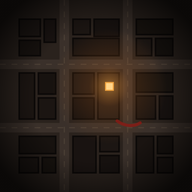
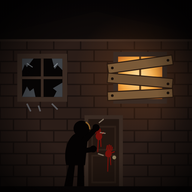
Kvartal: detailed emblem, siren glow and lightning over the menu
Emblem redrawn as a house front at night: a boarded window with light
through the gaps, a smashed one with shards, a zombie pounding on a door
with bloody handprints; icons re-rendered. The menu gets a soft red and
blue siren glow and an occasional lightning flash with distant thunder.

Claude-Session: https://claude.ai/code/session_01CJeFQTEg4JxW5kAec31Xqp

diff --git a/mobile-games/kvartal/index.html b/mobile-games/kvartal/index.html
@@ -7304,7 +7304,7 @@ function showTitle(fresh = true) {
   const ng = store.get("newgame", null);
   const item = (id, t, sub = "") => `<button class="tm" id="${id}"><span>${t}</span>${sub ? `<small>${sub}</small>` : ""}</button>`;
   screen.classList.add("titlescr");
-  screen.innerHTML = `<div class="tgrain"></div>
+  screen.innerHTML = `<div class="tlights"><i class="sr"></i><i class="sb"></i></div><div class="tbolt"></div><div class="tgrain"></div>
   <div class="tbox">
     <div class="talert"><i></i>Экстренное оповещение · округ Ноксвилл</div>
     <div class="tbrand"><span class="temb">${emblemSVG("te")}</span><h1 class="ttitle">Последний<br>квартал</h1></div>
@@ -7319,7 +7319,7 @@ function showTitle(fresh = true) {
   </div>
   ${best ? `<div class="tbest">Дольше всех продержался<b>${fmtSurvived(best)}</b></div>` : ""}
   <div class="tticker"><span class="tlive"><i></i>В эфире</span><div class="tmarq"><div>${TICKER.concat(TICKER).map(t => `<span>${t}</span>`).join("")}</div></div></div>`;
-  screen.hidden = false; bloodTitle(screen.querySelector(".ttitle"));
+  screen.hidden = false; bloodTitle(screen.querySelector(".ttitle")); titleStorm();
   const click = (id, fn) => { const b = $("#" + id); if (b) b.addEventListener("click", () => { unlockAudio(); sfx("swing", { vol: .25, rate: .7 }); fn(); }); };
   click("start", () => { screen.classList.remove("titlescr"); openNewGame(); });
   click("cont", () => { screen.classList.remove("titlescr"); continueGame(); });
@@ -7353,6 +7353,19 @@ const CREDITS = `<ul class="tlist">
 <li><b>Анимация</b>Ходьба и бег — Quaternius (CC0), перенесены на скелет игры.</li>
 <li><b>Звук</b>Oculus Audio Pack © 2015 Oculus VR, LLC (CC BY 4.0); голоса зомби — artisticdude (CC0); выстрелы — Fesliyan Studios; гром, ветер, сверчки, нарастающий гул и удар интро — Freesound (CC0). Тревожный гул меню — из Oculus Audio Pack.</li>
 </ul>`;
+// now and then lightning over the menu, thunder a moment later
+let stormT = null;
+function titleStorm() {
+  clearTimeout(stormT);
+  const strike = () => {
+    if (!screen.classList.contains("titlescr") || screen.hidden) return;
+    const b = screen.querySelector(".tbolt");
+    if (b) { b.classList.remove("on"); void b.offsetWidth; b.classList.add("on"); }
+    if (actx) sfx(Math.random() < .5 ? "thunderFar" : "thunder", { vol: .32, delay: rand(.6, 1.8), lp: 1400, cap: 2 });
+    stormT = setTimeout(strike, rand(15000, 35000));
+  };
+  stormT = setTimeout(strike, rand(6000, 14000));
+}
 function openInfo(title, html) {
   let m = $("#infoModal");
   if (!m) {
@@ -7433,6 +7446,15 @@ function titleCss() {
 }
 @media (orientation: landscape) and (max-height: 300px) { .tbox .tline, .tm small, .tbest { display: none; } .tbox .talert { font-size: 9px; } }
 .tbox { overflow: auto; }
+.tlights { position: absolute; inset: 0; pointer-events: none; overflow: hidden; }
+.tlights i { position: absolute; bottom: -35%; width: 70vw; height: 75vh; border-radius: 50%; filter: blur(70px); mix-blend-mode: screen; opacity: 0; animation: tsiren 1.9s ease-in-out infinite; }
+.tlights .sr { right: -18%; background: radial-gradient(closest-side, rgba(220,30,30,.9), transparent); }
+.tlights .sb { right: 14%; background: radial-gradient(closest-side, rgba(40,80,230,.85), transparent); animation-delay: -.95s; }
+@keyframes tsiren { 0%, 100% { opacity: 0 } 18% { opacity: .2 } 40% { opacity: .05 } 55% { opacity: .17 } 75% { opacity: 0 } }
+.tbolt { position: absolute; inset: 0; pointer-events: none; opacity: 0; background: radial-gradient(120% 90% at 65% 0%, rgba(200,215,255,.55), rgba(150,170,220,.18) 50%, transparent 80%); mix-blend-mode: screen; }
+.tbolt.on { animation: tbolt 1.1s ease-out 1; }
+@keyframes tbolt { 0% { opacity: 0 } 4% { opacity: .5 } 10% { opacity: .05 } 16% { opacity: .38 } 30% { opacity: .08 } 100% { opacity: 0 } }
+@media (prefers-reduced-motion: reduce) { .tlights i, .tbolt.on { animation: none; } }
 @media (prefers-reduced-motion: reduce) { .tgrain, .ttitle, .tmarq > div, .talert i, .tlive i { animation: none; } }
 ${BLOOD_CSS}`;
   document.head.append(st);
@@ -8115,34 +8137,53 @@ const recheckSize = () => { if (window.innerWidth !== lastIW || window.innerHeig
 window.addEventListener("orientationchange", () => { setTimeout(recheckSize, 120); setTimeout(recheckSize, 500); });
 setInterval(recheckSize, 250);
 game.classList.toggle("lefty", !!settings.lefty);
-// ---------- the emblem: a dark block seen from above, one window still lit
+// ---------- the emblem: a house at night - a boarded window still lit, a smashed one, and one of them at the door
 function emblemSVG(id = "em", full = false) {
-  // streets between nine blocks; each block holds a few roofs; one roof has a lit window
-  const roofs = [
-    [10, 10, 11, 9, "#1d1714"], [23, 10, 6, 12, "#191311"], [10, 21, 11, 8, "#17120f"],
-    [38, 10, 9, 8, "#1b1512"], [49, 10, 13, 9, "#16110f"], [38, 20, 24, 9, "#1a1411"],
-    [71, 10, 19, 8, "#18130f"], [71, 20, 8, 9, "#1c1613"], [81, 20, 9, 9, "#15110e"],
-    [10, 38, 8, 24, "#1a1411"], [20, 38, 9, 11, "#17120f"], [20, 51, 9, 11, "#1b1512"],
-    [38, 38, 11, 11, "#1c1613"], [51, 38, 11, 24, "#201915"], [38, 51, 11, 11, "#16110f"],
-    [71, 38, 19, 10, "#18130f"], [71, 50, 10, 12, "#1a1411"], [83, 50, 7, 12, "#16110f"],
-    [10, 71, 19, 9, "#17120f"], [10, 82, 10, 8, "#1b1512"], [22, 82, 7, 8, "#18130f"],
-    [38, 71, 12, 19, "#191311"], [52, 71, 10, 8, "#1c1613"], [52, 81, 10, 9, "#16110f"],
-    [71, 71, 9, 19, "#1a1411"], [82, 71, 8, 9, "#17120f"], [82, 82, 8, 8, "#1b1512"]
-  ];
+  const bricks = [];
+  for (let r = 0; r < 14; r++) { const y = 20 + r * 6; bricks.push(`M0 ${y}h100`); for (let x = (r % 2) * 7; x < 100; x += 14) bricks.push(`M${x} ${y}v6`); }
   return `<svg viewBox="0 0 100 100" xmlns="http://www.w3.org/2000/svg" aria-hidden="true">
 <defs>
-<radialGradient id="${id}g" cx="57" cy="45" r="30" gradientUnits="userSpaceOnUse"><stop offset="0" stop-color="#f2a541" stop-opacity=".55"/><stop offset=".35" stop-color="#e07a2a" stop-opacity=".18"/><stop offset="1" stop-color="#e07a2a" stop-opacity="0"/></radialGradient>
-<radialGradient id="${id}v" cx="50" cy="50" r="62" gradientUnits="userSpaceOnUse"><stop offset=".55" stop-color="#000" stop-opacity="0"/><stop offset="1" stop-color="#000" stop-opacity=".75"/></radialGradient>
+<linearGradient id="${id}s" x1="0" y1="0" x2="0" y2="1"><stop offset="0" stop-color="#0a0607"/><stop offset="1" stop-color="#1c1210"/></linearGradient>
+<radialGradient id="${id}l" cx="72" cy="40" r="34" gradientUnits="userSpaceOnUse"><stop offset="0" stop-color="#f2a541" stop-opacity=".42"/><stop offset=".4" stop-color="#d06a24" stop-opacity=".14"/><stop offset="1" stop-color="#d06a24" stop-opacity="0"/></radialGradient>
+<radialGradient id="${id}w" cx="72" cy="40" r="16" gradientUnits="userSpaceOnUse"><stop offset="0" stop-color="#ffe3a6"/><stop offset=".6" stop-color="#f2a541"/><stop offset="1" stop-color="#b85a1c"/></radialGradient>
+<radialGradient id="${id}v" cx="50" cy="52" r="64" gradientUnits="userSpaceOnUse"><stop offset=".5" stop-color="#000" stop-opacity="0"/><stop offset="1" stop-color="#000" stop-opacity=".8"/></radialGradient>
 <clipPath id="${id}c"><rect width="100" height="100" rx="${full ? 0 : 18}"/></clipPath>
 </defs>
 <g clip-path="url(#${id}c)">
-<rect width="100" height="100" fill="#2a221d"/>
-<path d="M0 33.5h100M0 66.5h100M33.5 0v100M66.5 0v100" stroke="#3a302a" stroke-width="5"/>
-<path d="M0 33.5h100M0 66.5h100M33.5 0v100M66.5 0v100" stroke="#4a3e34" stroke-width=".6" stroke-dasharray="3 3"/>
-${roofs.map(([x, y, w, h, c]) => `<rect x="${x}" y="${y}" width="${w}" height="${h}" fill="${c}" stroke="#0c0908" stroke-width=".8"/>`).join("")}
-<rect width="100" height="100" fill="url(#${id}g)"/>
-<rect x="55" y="43" width="4" height="4" fill="#ffd58a"/><rect x="55" y="43" width="4" height="4" fill="none" stroke="#f2a541" stroke-width=".6"/>
-<path d="M61 63c4 3 9 3 12 1" stroke="#8a1a14" stroke-width="1.6" fill="none" stroke-linecap="round" opacity=".8"/>
+<rect width="100" height="100" fill="url(#${id}s)"/>
+<rect y="18" width="100" height="82" fill="#2b1d18"/>
+<path d="${bricks.join("")}" stroke="#1a110e" stroke-width=".7"/>
+<path d="M-2 18 L50 6 L102 18 V21 H-2z" fill="#0f0a09"/><path d="M-2 21h104" stroke="#3a2a22" stroke-width="1.2"/>
+<rect width="100" height="100" fill="url(#${id}l)"/>
+<!-- smashed window, left -->
+<rect x="9" y="28" width="26" height="25" fill="#3a2b23"/><rect x="11.5" y="30.5" width="21" height="20" fill="#060404"/>
+<path d="M11.5 30.5h6l-3.5 4.5-1 -1.5-1.5 3.5zM32.5 30.5v6l-2.5-2.5-1.5 2-1.5-5.5zM11.5 50.5l2.5-5.5 1.5 2.5 2-1.5 1 4.5zM32.5 50.5h-4.5l1.5-3-2-1.5 5-3z" fill="#8f9ba6" opacity=".42"/>
+<path d="M14 33l3 2M30 33l-2 2" stroke="#c9d2da" stroke-width=".5" opacity=".5"/>
+<path d="M22 30.5v20M11.5 40.5h21" stroke="#3a2b23" stroke-width="1.4"/>
+<path d="M14 54l2 4M20 55l1 3M27 54l3 3" stroke="#8f9ba6" stroke-width=".8" opacity=".5"/>
+<!-- boarded window, right, light through the gaps -->
+<rect x="59" y="27" width="28" height="27" fill="#3a2b23"/><rect x="61.5" y="29.5" width="23" height="22" fill="url(#${id}w)"/>
+<path d="M73 29.5v22M61.5 40.5h23" stroke="#5a3a1a" stroke-width="1"/>
+<g stroke="#2a1a10" stroke-width=".5">
+<rect x="56" y="31" width="34" height="5" fill="#7a5a38" transform="rotate(-8 73 33.5)"/>
+<rect x="56" y="39.5" width="34" height="5" fill="#6e5032" transform="rotate(5 73 42)"/>
+<rect x="56" y="47" width="34" height="4.5" fill="#7a5a38" transform="rotate(-3 73 49)"/>
+</g>
+<g fill="#1a110c"><circle cx="58.5" cy="35.4" r=".7"/><circle cx="87.5" cy="31.4" r=".7"/><circle cx="58.5" cy="41" r=".7"/><circle cx="87.5" cy="43.7" r=".7"/><circle cx="58.5" cy="49.8" r=".7"/><circle cx="87.5" cy="48.4" r=".7"/></g>
+<!-- the door and the one pounding on it -->
+<rect x="44" y="60" width="20" height="40" fill="#3a2b23"/><rect x="46" y="62" width="16" height="38" fill="#221610"/>
+<path d="M48 66h12v12H48zM48 81h12v14H48z" fill="none" stroke="#2e2018" stroke-width=".9"/><circle cx="59.5" cy="82" r="1" fill="#8a7a5a"/>
+<g fill="#7d0f0a" opacity=".9"><g transform="translate(51.5 71) rotate(-12)"><ellipse cx="0" cy="0" rx="1.7" ry="2" /><rect x="-1.6" y="-4.3" width=".7" height="2.6" rx=".35"/><rect x="-.7" y="-4.8" width=".7" height="3" rx=".35"/><rect x=".2" y="-4.6" width=".7" height="2.9" rx=".35"/><rect x="1.05" y="-3.9" width=".6" height="2.3" rx=".3"/><rect x="1.4" y="-1" width="1.8" height=".6" rx=".3" transform="rotate(-30 1.4 -1)"/></g><g transform="translate(56.5 80) rotate(10)"><ellipse cx="0" cy="0" rx="1.7" ry="2" /><rect x="-1.6" y="-4.3" width=".7" height="2.6" rx=".35"/><rect x="-.7" y="-4.8" width=".7" height="3" rx=".35"/><rect x=".2" y="-4.6" width=".7" height="2.9" rx=".35"/><rect x="1.05" y="-3.9" width=".6" height="2.3" rx=".3"/><rect x="1.4" y="-1" width="1.8" height=".6" rx=".3" transform="rotate(-30 1.4 -1)"/></g><path d="M51.2 73l-.3 6M52.4 72.8l.2 3.5M56.3 82.2l-.2 7M57.4 81.8l.3 4" stroke="#7d0f0a" stroke-width=".55" stroke-linecap="round"/></g>
+<g fill="#040202">
+<path d="M33 99l3.2-15 3 .6-1.6 14.4zM40 99l.6-14 3 .3.3 13.7z"/>
+<path d="M34.5 86c-1.5-6 0-13 4-16 3-2 6 0 7 4l-1.2 12z"/>
+<circle cx="42.5" cy="67" r="4.2"/>
+<path d="M41 74l8-8 1.8 1.8-7.5 8.5zM39 78l9-1.5.4 2.6-9.3 1.4z"/>
+<circle cx="50" cy="66.5" r="1.9"/><circle cx="48.6" cy="77.6" r="1.8"/>
+</g>
+<path d="M44.6 63.6c1.4.8 2.2 2.2 2.2 3.8" stroke="#f2a541" stroke-width=".7" fill="none" opacity=".55"/>
+<path d="M51.5 64l2.5-2M52 69l3 .5M51 80l3 1" stroke="#c9b9a0" stroke-width=".6" opacity=".55"/>
+<rect y="97" width="100" height="3" fill="#0a0606"/>
 <rect width="100" height="100" fill="url(#${id}v)"/>
 </g>
 ${full ? "" : `<rect x=".75" y=".75" width="98.5" height="98.5" rx="17.5" fill="none" stroke="rgba(208,69,58,.45)" stroke-width="1.5"/>`}

diff --git a/mobile-games/kvartal/sw.js b/mobile-games/kvartal/sw.js
@@ -1,5 +1,5 @@
 // offline cache: the game opens from the home screen without a connection; a new version is fetched in the background
-const CACHE = "kvartal-1c349b7aea";
+const CACHE = "kvartal-42ee095df0";
 const FILES = ["./", "index.html", "manifest.webmanifest", "icon.png", "icon-192.png", "icon-512.png",
   "lib/three.min.js", "lib/CopyShader.js", "lib/LuminosityHighPassShader.js", "lib/EffectComposer.js", "lib/RenderPass.js", "lib/ShaderPass.js", "lib/UnrealBloomPass.js", "lib/BufferGeometryUtils.js"];
 self.addEventListener("install", e => { e.waitUntil(caches.open(CACHE).then(c => c.addAll(FILES)).then(() => self.skipWaiting())); });
